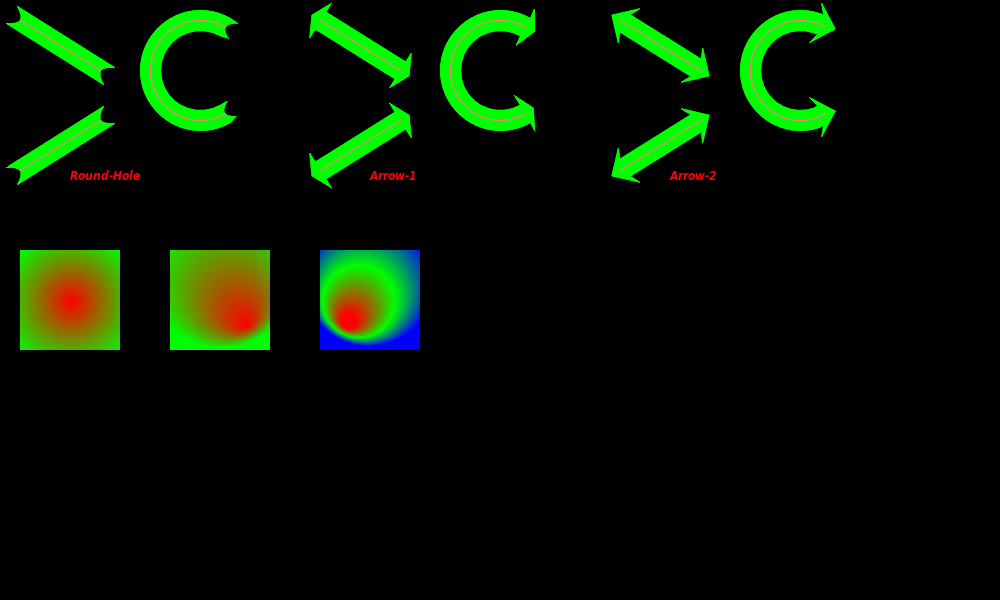
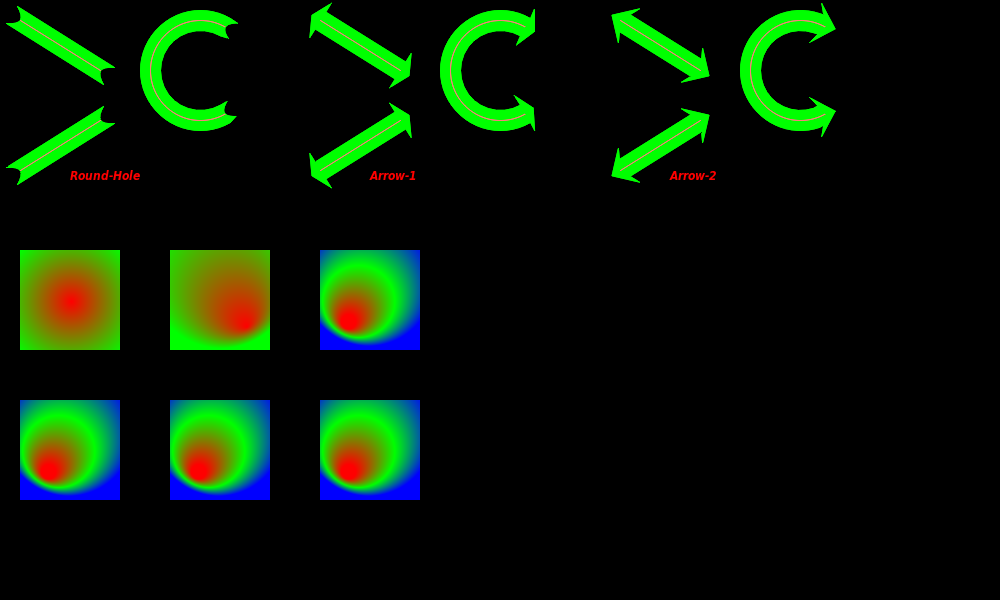
Preparing experiment for new algo/code for linear gradient

Changed region(s): [[0.31, 0.66, 0.434, 0.84], [0.155, 0.66, 0.279, 0.84], [0.0, 0.66, 0.124, 0.84]]

diff --git a/src/Pt-Gfx/Rasterizer2.cpp b/src/Pt-Gfx/Rasterizer2.cpp
@@ -460,8 +460,33 @@ void Rasterizer2::updateGradientBrush_gen1DHorVerGradient(Pt::int32_t width, Pt:
 }
 
 
+// Based on: Smooth HTML5 Canvas Gradients with Floyd-Steinberg Dithering
+//           http://rectangleworld.com/blog/archives/713
+//           http://rectangleworld.com/demos/DitheredGradient/DitheredGradientExample.html
+//           Original code by Rectangle World, 2012
 void Rasterizer2::updateGradientBrush_gen2DLinearGradient(Pt::int32_t width, Pt::int32_t height)
 {
+    const ColorStops& colStops = _brush.gradientStops();
+    if(colStops.empty()) return;
+
+    PointF begPos, endPos;
+    float  begRad, endRad;
+
+    if(_brush.positionMode() == Brush::Absolute) {
+        begPos = _brush.gradientBegin      ();
+        begRad = _brush.gradientBeginRadius();
+
+        endPos = _brush.gradientEnd      ();
+        endRad = _brush.gradientEndRadius();
+    }
+    else { // Brush::Relative
+        begPos.set( _brush.gradientBegin().x() * width, _brush.gradientBegin().y() * height );
+        begRad =    _brush.gradientBeginRadius() * sqrtf(width * width + height * height);
+
+        endPos.set( _brush.gradientEnd().x() * width, _brush.gradientEnd  ().y() * height );
+        endRad =    _brush.gradientEndRadius() * sqrtf(width * width + height * height);
+    }
+
     /*
     // Determine the start and end colors
     Pt::uint8_t sc[4], ec[4], rc[4];
@@ -528,18 +553,18 @@ void Rasterizer2::updateGradientBrush_gen2DLinearGradient(Pt::int32_t width, Pt:
 
 
 // Based on: Smooth HTML5 Canvas Radial Gradients with Dithering
+//           http://rectangleworld.com/blog/archives/833
 //           http://rectangleworld.com/demos/DitheredRadial/DitheredRadialExample.html
 //           Original code by Rectangle World, 2013
 void Rasterizer2::updateGradientBrush_gen2DRadialGradient(Pt::int32_t width, Pt::int32_t height)
 {
-
     const ColorStops& colStops = _brush.gradientStops();
     if(colStops.empty()) return;
 
     PointF begPos, endPos;
     float  begRad, endRad;
 
-     if(_brush.positionMode() == Brush::Absolute) {
+    if(_brush.positionMode() == Brush::Absolute) {
         begPos = _brush.gradientBegin      ();
         begRad = _brush.gradientBeginRadius();
 
@@ -574,7 +599,7 @@ void Rasterizer2::updateGradientBrush_gen2DRadialGradient(Pt::int32_t width, Pt:
         const Pt::int32_t y    = i / width;
         const float       dx   = x - begPos.x();
         const float       dy   = y - begPos.y();
-        // Claculate the discriminator
+        // Claculate the discriminant
         const float       b    = rBegDif + 2.0f * (dx * xDiff + dy * yDiff);
         const float       c    = rBegSqr - dx * dx - dy * dy;
         const float       dscm = b * b - 4.0f * a * c;

diff --git a/src/Pt-Gfx/tests/ImagePainterTest2_Draw_Extra.cpp b/src/Pt-Gfx/tests/ImagePainterTest2_Draw_Extra.cpp
@@ -80,13 +80,23 @@ static void testDrawExtra(const char* title, Image& image, Painter& painter)
 
     // Radial gradients
     painter.setBrush( Brush::radialGradient(0.5, 0.5, 0.0, 0.5, 0.5, 0.5, stops2) );
-    painter.fillRect( RectF(PointF(20 + 150 * 0, 250), SizeF(100, 100)) );
+    painter.fillRect( RectF(PointF(20 + 150 * 0, 250 + 150 * 0), SizeF(100, 100)) );
 
     painter.setBrush( Brush::radialGradient(0.75, 0.75, 0.0, 0.5, 0.25, 0.5, stops2) );
-    painter.fillRect( RectF(PointF(20 + 150 * 1, 250), SizeF(100, 100)) );
+    painter.fillRect( RectF(PointF(20 + 150 * 1, 250 + 150 * 0), SizeF(100, 100)) );
 
     painter.setBrush( Brush::radialGradient(0.25, 0.75, 0.0, 0.5, 0.25, 0.5, stops3) );
-    painter.fillRect( RectF(PointF(20 + 150 * 2, 250), SizeF(100, 100)) );
+    painter.fillRect( RectF(PointF(20 + 150 * 2, 250 + 150 * 0), SizeF(100, 100)) );
+
+    // Linear gradients
+    painter.setBrush( Brush::linearGradient(0.0, 0.5, 1.0, 0.5, stops2) );
+    painter.fillRect( RectF(PointF(20 + 150 * 0, 250 + 150 * 1), SizeF(100, 100)) );
+
+    painter.setBrush( Brush::linearGradient(0.5, 0.0, 0.5, 1.0, stops2) );
+    painter.fillRect( RectF(PointF(20 + 150 * 1, 250 + 150 * 1), SizeF(100, 100)) );
+
+    painter.setBrush( Brush::linearGradient(0.1, 0.2, 1.0, 0.9, stops3) );
+    painter.fillRect( RectF(PointF(20 + 150 * 2, 250 + 150 * 1), SizeF(100, 100)) );
 
 /*
     // --- Part 1 ---

diff --git a/src/Pt-Gfx/Brush.cpp b/src/Pt-Gfx/Brush.cpp
@@ -321,7 +321,7 @@ BrushData::BrushData(const Color& from, const Color& to,
         _gradientBegin.set(0.0f, 0.5f);
         _gradientEnd.set(1.0f, 0.5f);
     }
-    else
+    else // Vertical
     {
         _gradientBegin.set(0.5f, 0.0f);
         _gradientEnd.set(0.5f, 1.0f);
